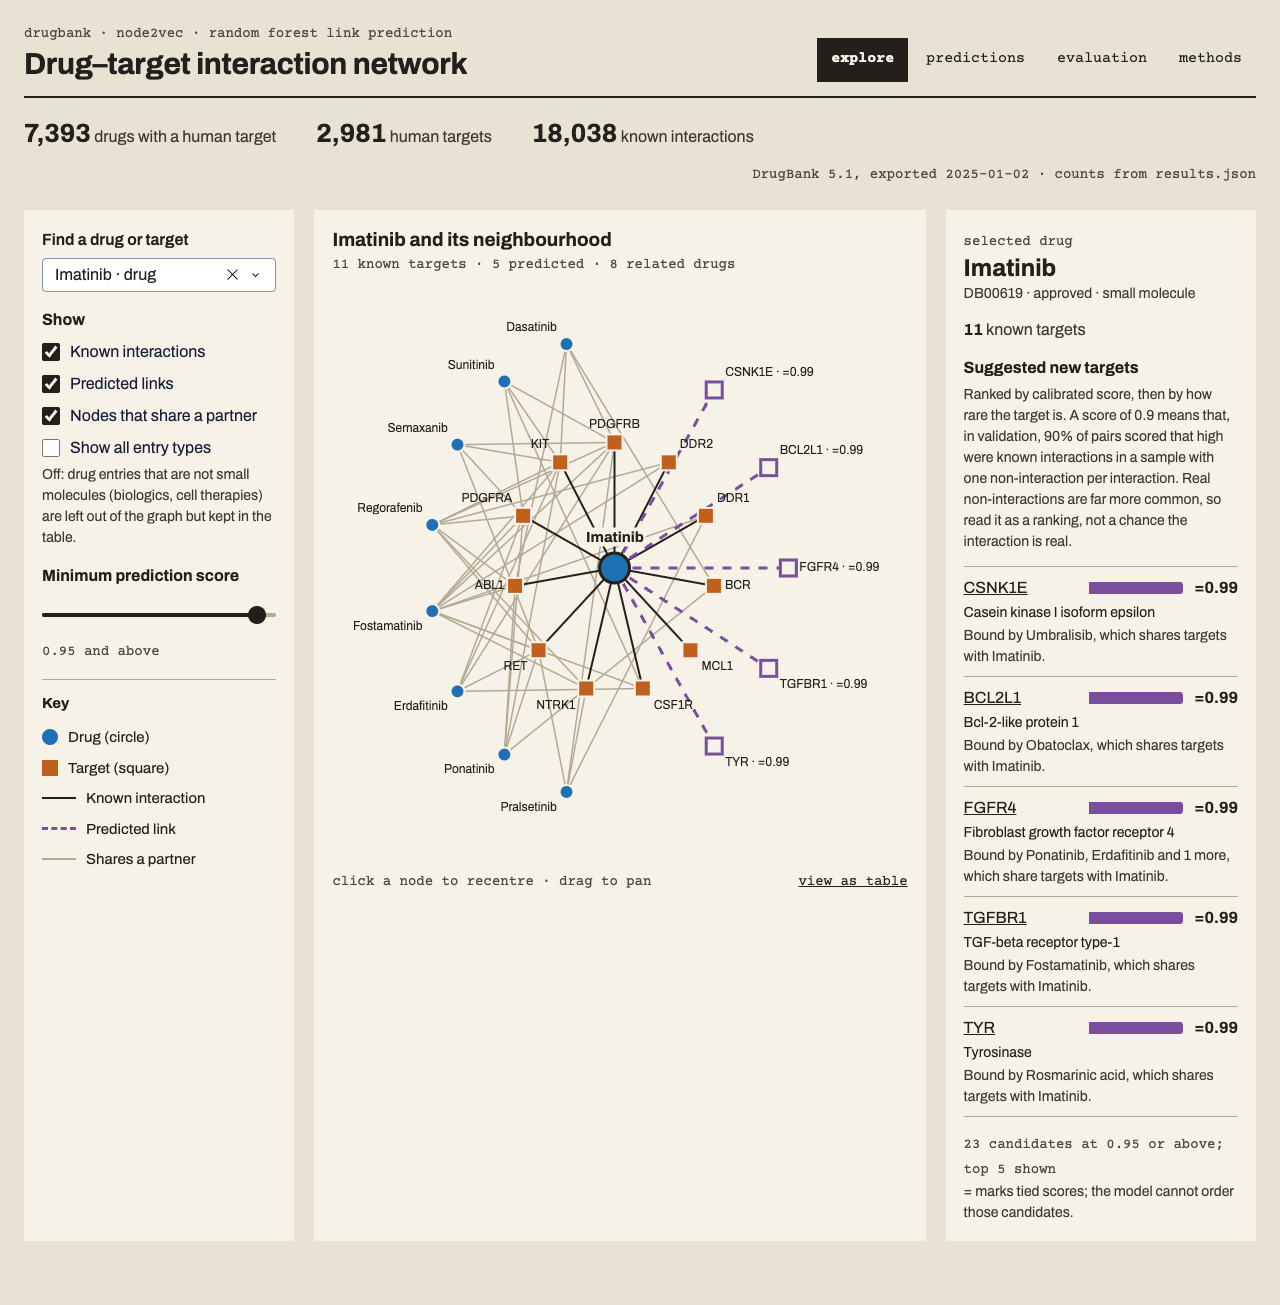
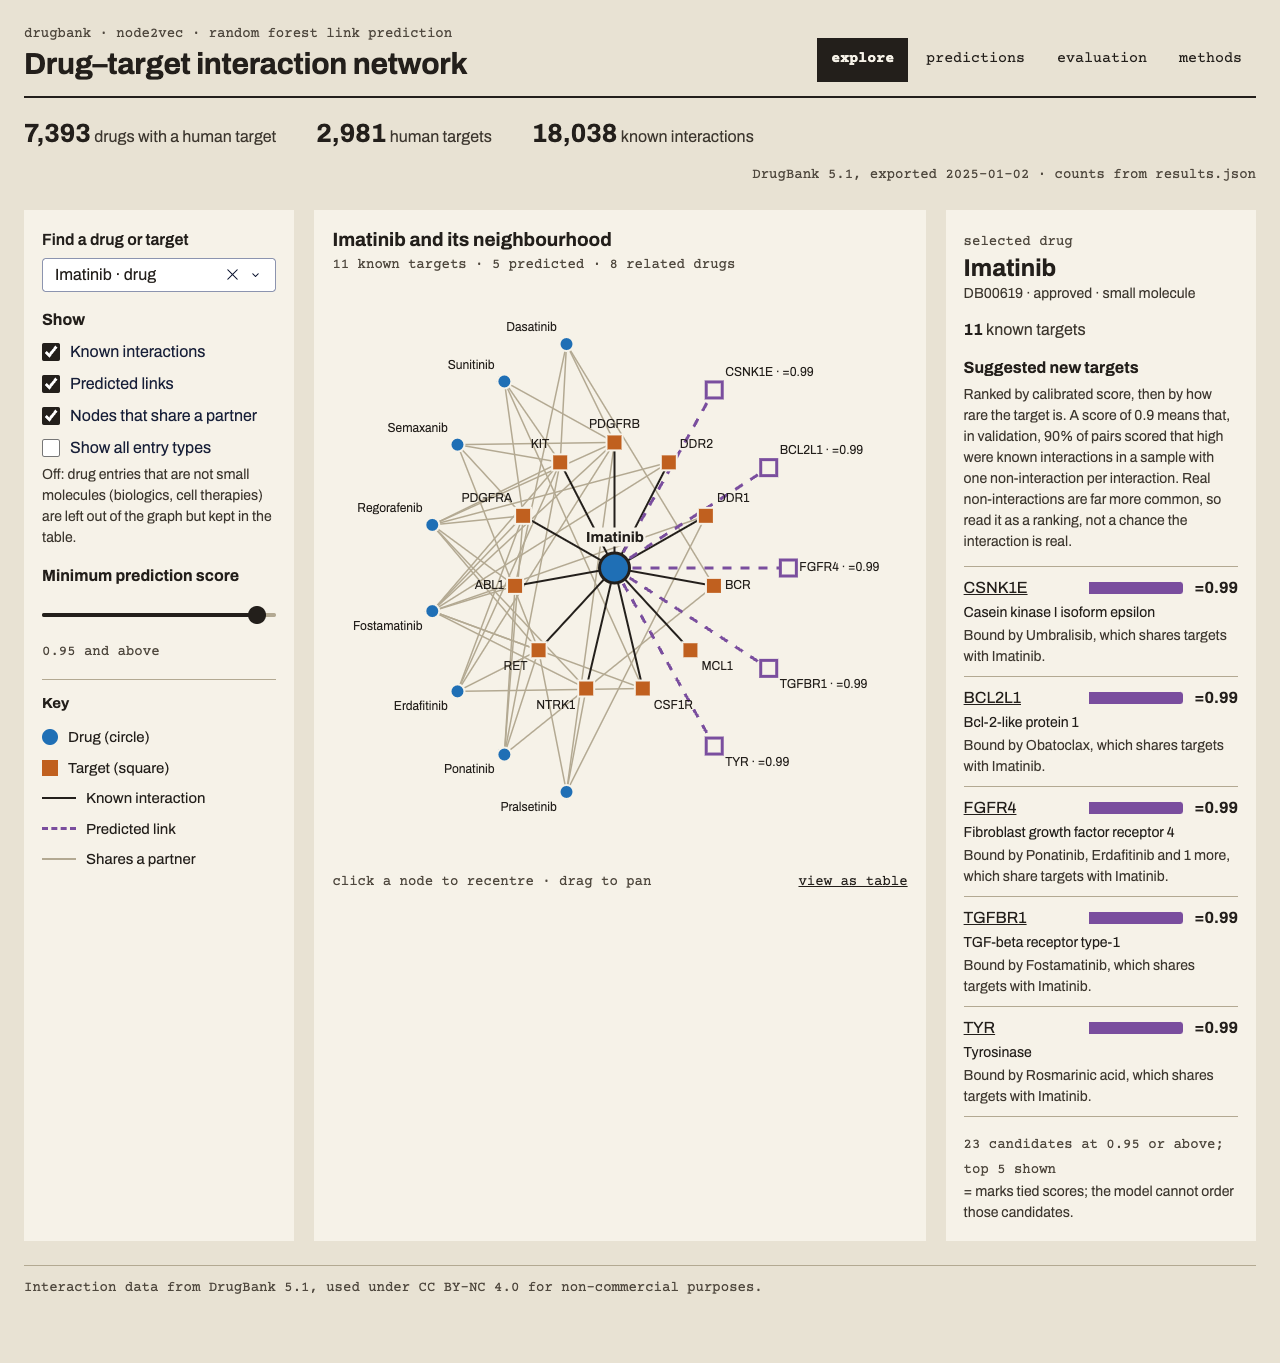
Add DrugBank attribution to the app footer, README and demo export
"Interaction data from DrugBank 5.1, used under CC BY-NC 4.0 for
non-commercial purposes." export_demo.py writes it as an attribution
field; --include-known (UniProt accession and gene symbol only) is
approved for the 23 demo drugs. README screenshot retaken with the
footer.

diff --git a/assets/style.css b/assets/style.css
@@ -92,6 +92,9 @@ nav { display: flex; flex-wrap: wrap; gap: 0 4px; font-family: "Courier Prime", 
 .full-name { font-size: 14px; margin-top: 2px; }
 .reason { font-size: 14px; color: var(--secondary); margin-top: 2px; }
 
+/* Footer */
+.site-footer { border-top: 1px solid var(--rule); padding-top: 12px; }
+
 /* Bars */
 .bar-track { flex: 1 1 70px; position: relative; display: block; min-width: 0; }
 .bar-track.tall { background: var(--track); height: 20px; }

diff --git a/scripts/export_demo.py b/scripts/export_demo.py
@@ -14,8 +14,9 @@ By default nothing row-for-row from DrugBank is exported: no known
 drug-target pairs and no DrugBank text. Drug names come with DrugBank IDs
 (both are in DrugBank's CC0 "Open Data" vocabulary); targets are identified
 by UniProt accession and gene symbol. Known interactions appear only as
-counts. --include-known adds each drug's known target list and should only
-be used once redistribution has been cleared.
+counts. --include-known adds each drug's known targets (UniProt accession and
+gene symbol only); Colin approved this for the 23 demo drugs on 2026-10-12.
+The attribution field must be shown wherever the demo appears.
 """
 
 import argparse
@@ -37,6 +38,7 @@ DEMO_DRUGS = [
     "Celecoxib", "Acetylsalicylic acid", "Morphine", "Sertraline", "Fluoxetine", "Haloperidol",
     "Diazepam", "Sildenafil", "Omeprazole", "Loratadine", "Caffeine",
 ]
+ATTRIBUTION = "Interaction data from DrugBank 5.1, used under CC BY-NC 4.0 for non-commercial purposes."
 TOP_K = 5
 MAX_BYTES = 500_000
 
@@ -110,8 +112,10 @@ def main():
             "calibration": results["app_model"]["calibration"],
             "default_threshold": threshold,
         },
+        "attribution": ATTRIBUTION,
         "contents": ("model outputs and public identifiers only" if not args.include_known
-                     else "includes known DrugBank drug-target pairs"),
+                     else "model outputs, public identifiers and each drug's known targets "
+                          "(UniProt accession and gene symbol)"),
         "score_note": ("Calibrated on validation pairs with one non-interaction per interaction; a "
                        "ranking signal, not the chance an interaction is real. score_tied marks "
                        "scores that round to the same two decimals as another shown candidate."),

diff --git a/app.py b/app.py
@@ -48,6 +48,7 @@ METHOD_LABELS = {
 NEGATIVE_WORDS = {"uniform": "uniform-negative", "degree_matched": "degree-matched"}
 OTHER_SCHEME = {"uniform": "degree_matched", "degree_matched": "uniform"}
 DEFAULT_NODE_NAME = "Imatinib"
+ATTRIBUTION = "Interaction data from DrugBank 5.1, used under CC BY-NC 4.0 for non-commercial purposes."
 
 
 # ----- data ------------------------------------------------------------------
@@ -653,7 +654,8 @@ server = app.server
 app.layout = html.Div([
     dcc.Location(id="url"),
     dcc.Store(id="viewport-width"),
-    html.Div([header(), html.Main(id="page")], className="wrap"),
+    html.Div([header(), html.Main(id="page"),
+              html.Footer(ATTRIBUTION, className="site-footer mono")], className="wrap"),
 ], className="page")
 
 

diff --git a/README.md b/README.md
@@ -2,6 +2,8 @@
 
 ![The explore view: Imatinib, its known targets, drugs that share them, and predicted targets](docs/explore.png)
 
+<sub>Interaction data from DrugBank 5.1, used under CC BY-NC 4.0 for non-commercial purposes.</sub>
+
 A Dash app and pipeline that turn a DrugBank export into a drug–target network, learn which unrecorded drug–target pairs look like real interactions, and show the evidence for each suggestion. Drugs and human protein targets form a bipartite graph; Node2Vec embeds it; a random forest scores pairs from graph and embedding features. The app has four views: **explore** (search a drug or target, see its neighbourhood and ranked suggestions), **predictions**, **evaluation** and **methods**.
 
 ## Run it
@@ -66,5 +68,7 @@ An earlier version of this README reported ROC AUC 0.93 on a "temporal" split. T
 - **DrugBank entries** include ions, salts, supplements and cell therapies. The app features approved small molecules only and hides other entry types from the graph by default.
 
 ## Licence
+
+Interaction data from DrugBank 5.1, used under CC BY-NC 4.0 for non-commercial purposes.
 
 Code: MIT (see `LICENSE`). DrugBank data is licensed separately by DrugBank (CC BY-NC 4.0 for the full database) and is not included. Fonts: Archivo and Courier Prime, SIL Open Font License (`assets/fonts/`).
